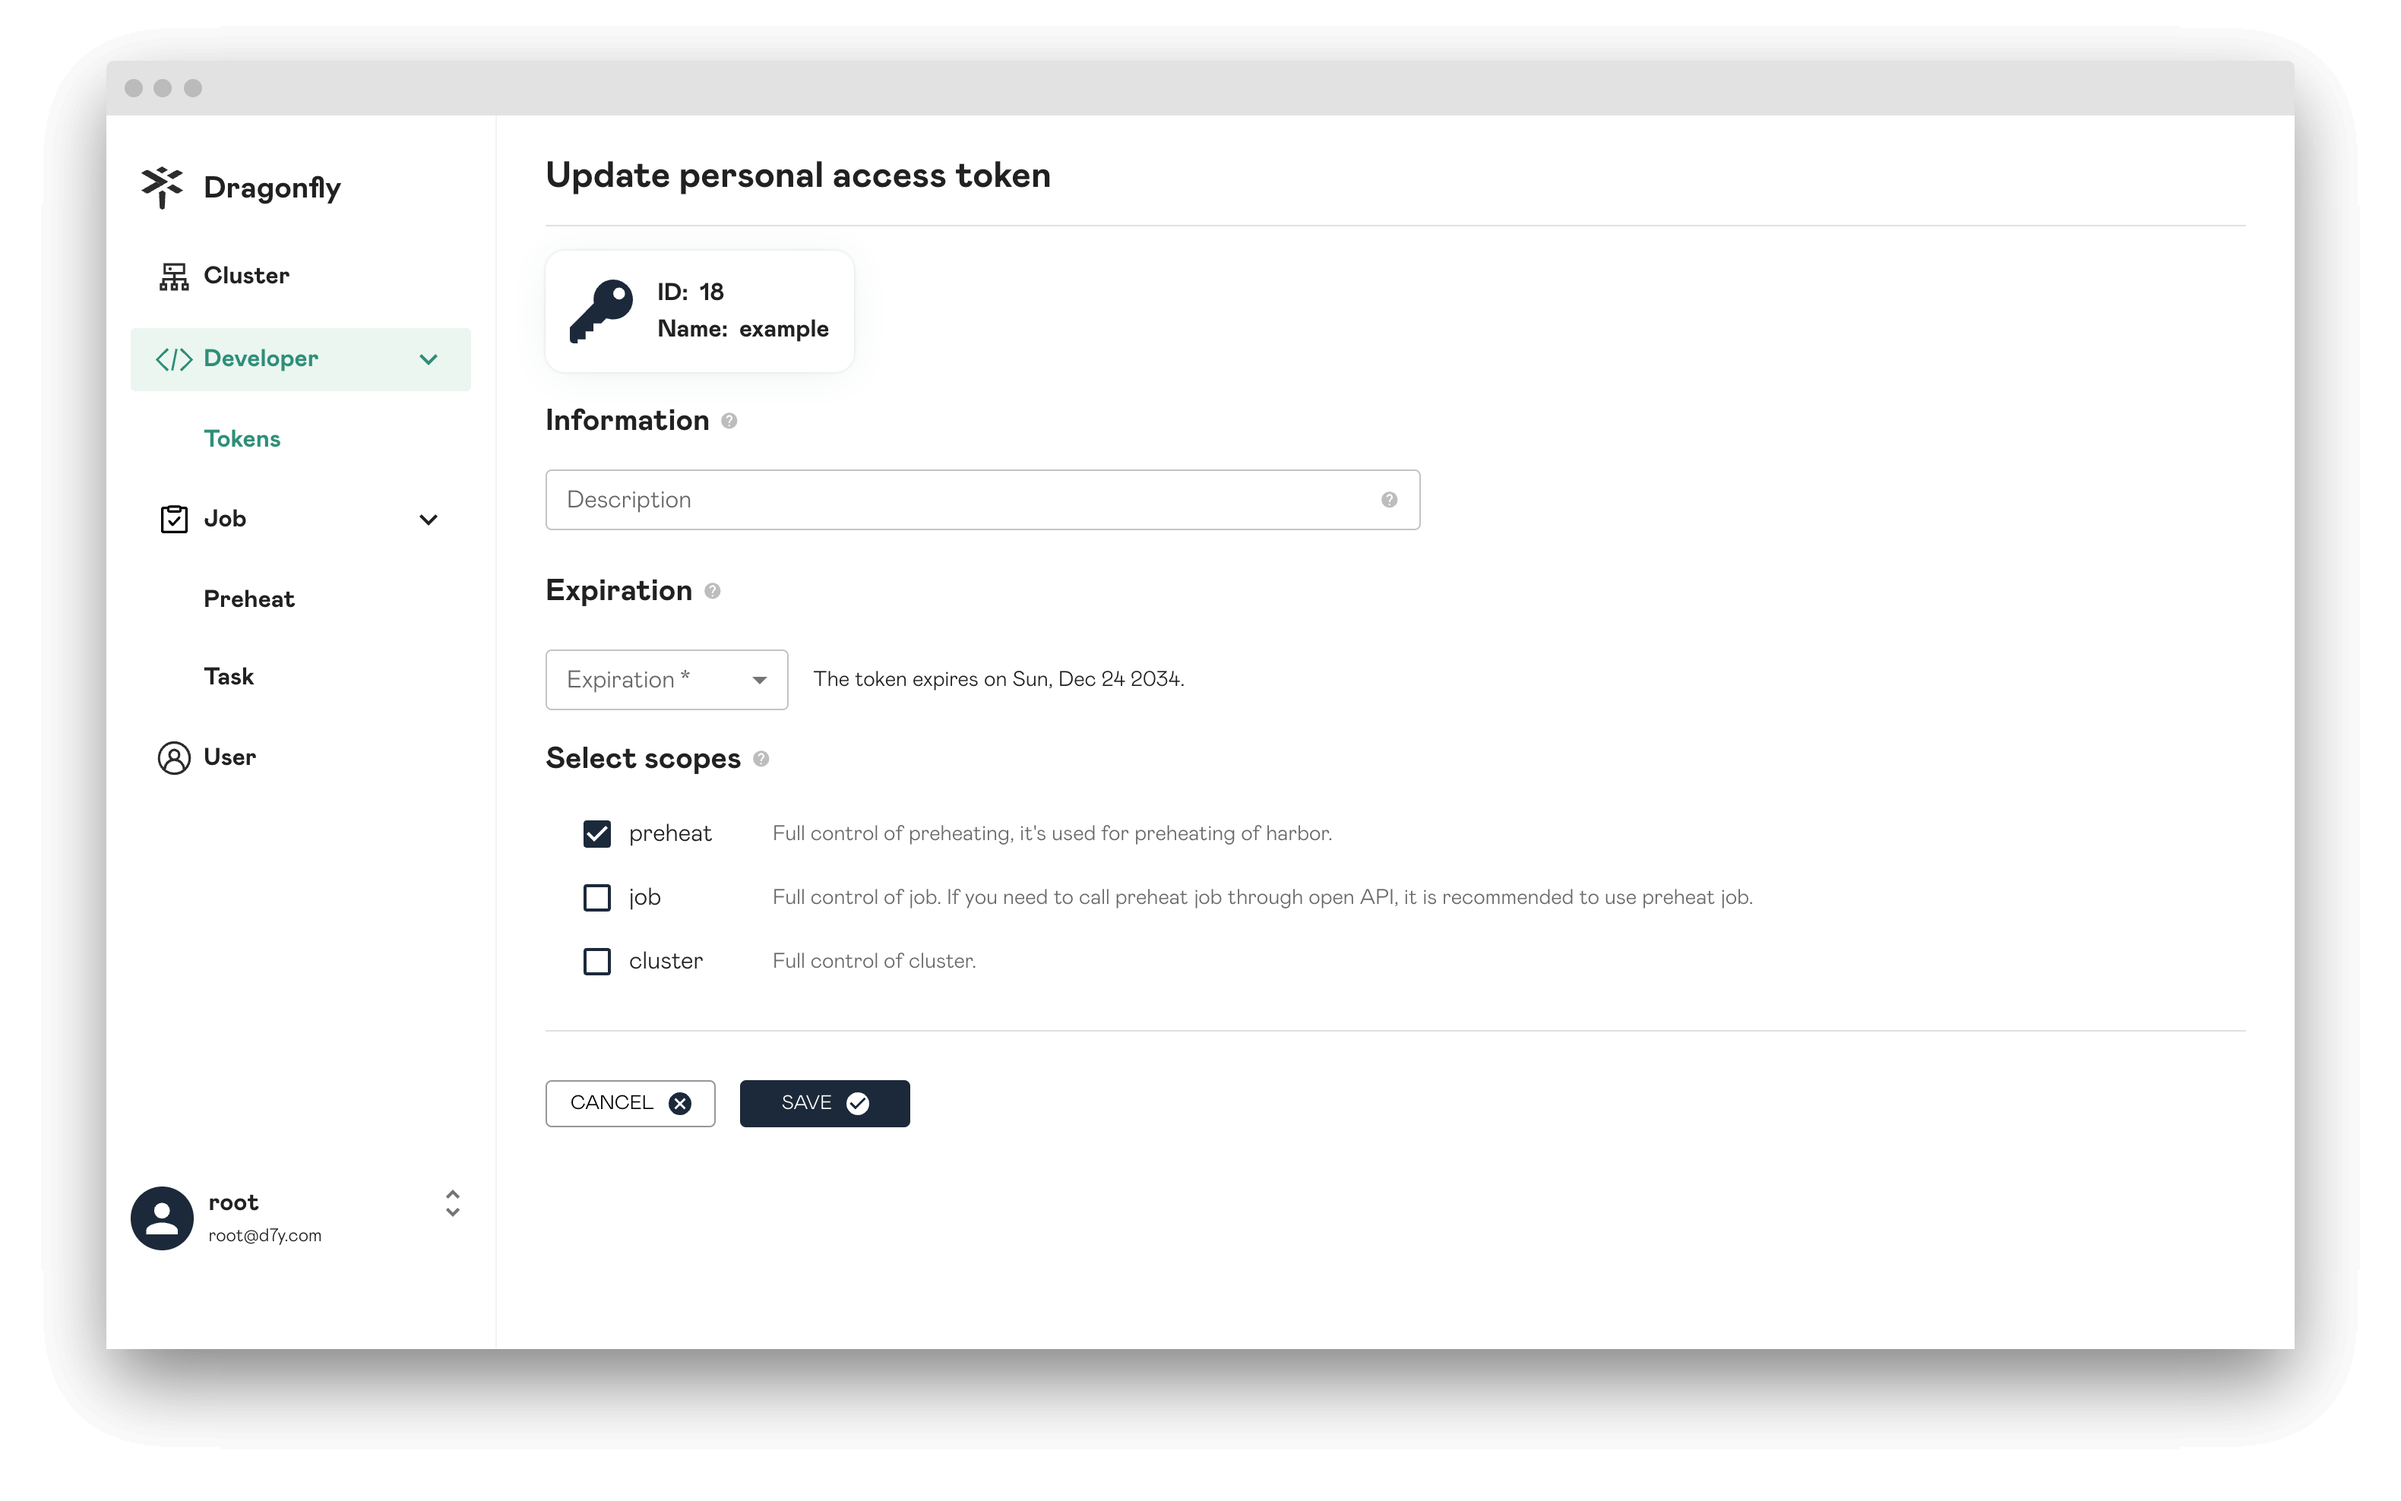
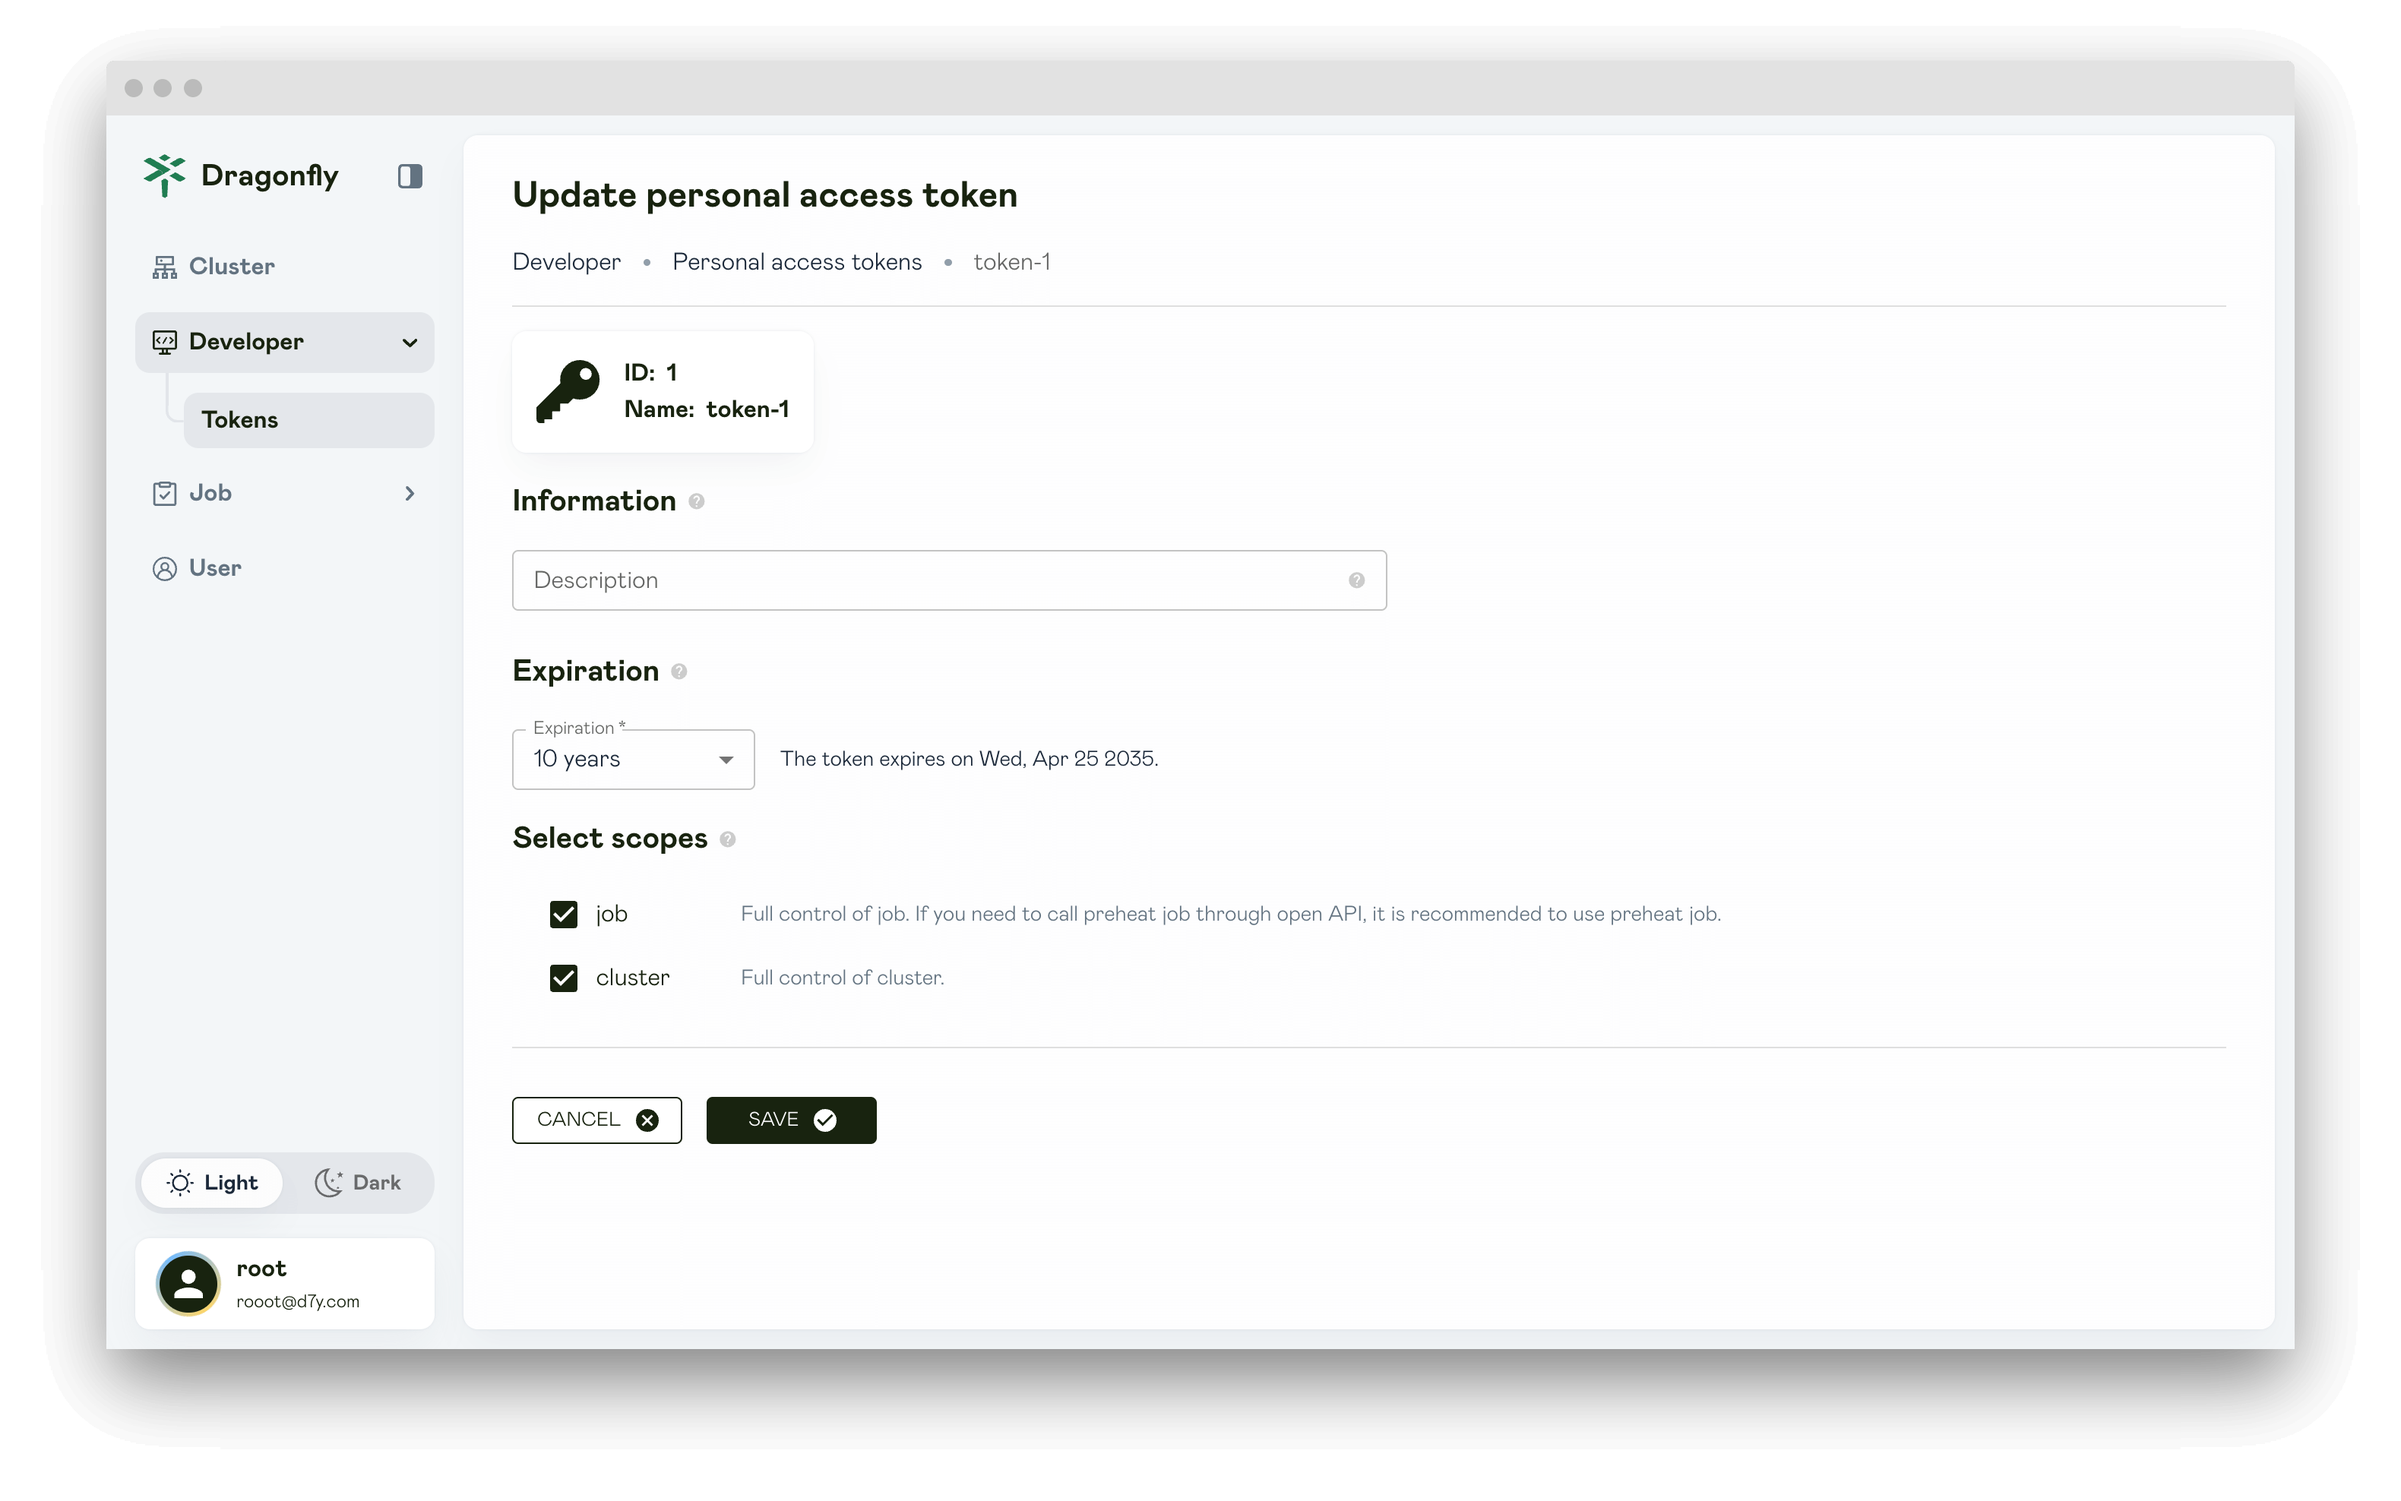
chore: personal access tokens delete preheat (#258)

diff --git a/docs/advanced-guides/web-console/developer/personal-access-tokens.md b/docs/advanced-guides/web-console/developer/personal-access-tokens.md
@@ -32,8 +32,6 @@ Token expiration time.
 
 Select the access permissions for the token.
 
-**preheat**: Full control of preheating, it's used for preheating of harbor.
-
 **job**: Full control of job. If you need to call preheat job through open API, it is recommended to use preheat job.
 
 **cluster**: Full control of cluster.
